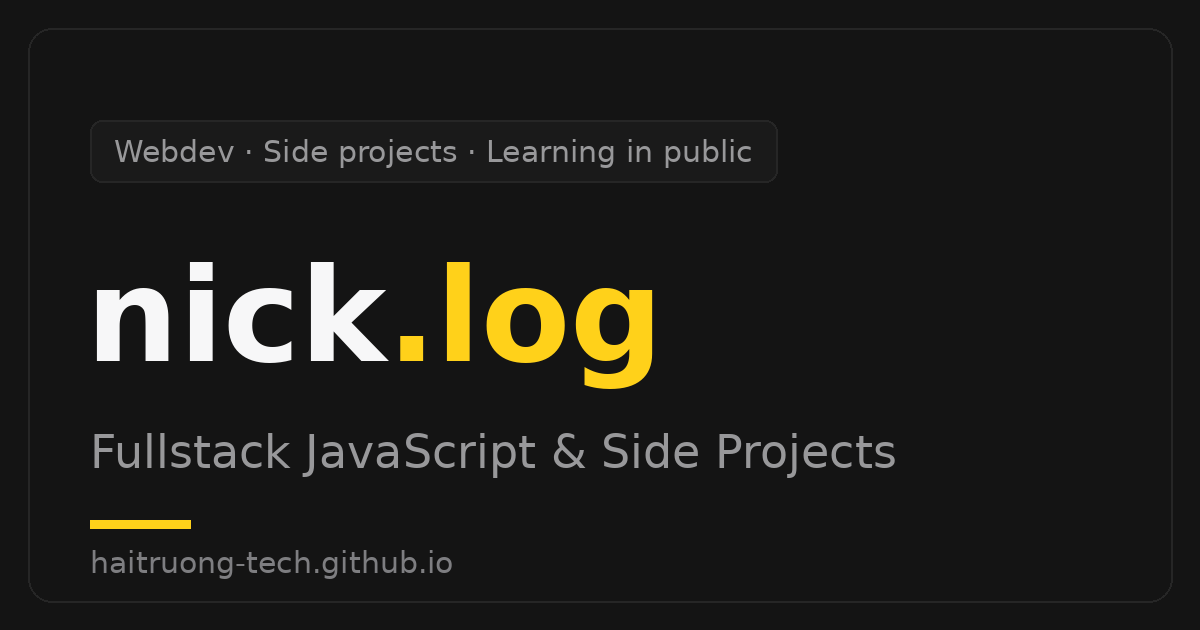
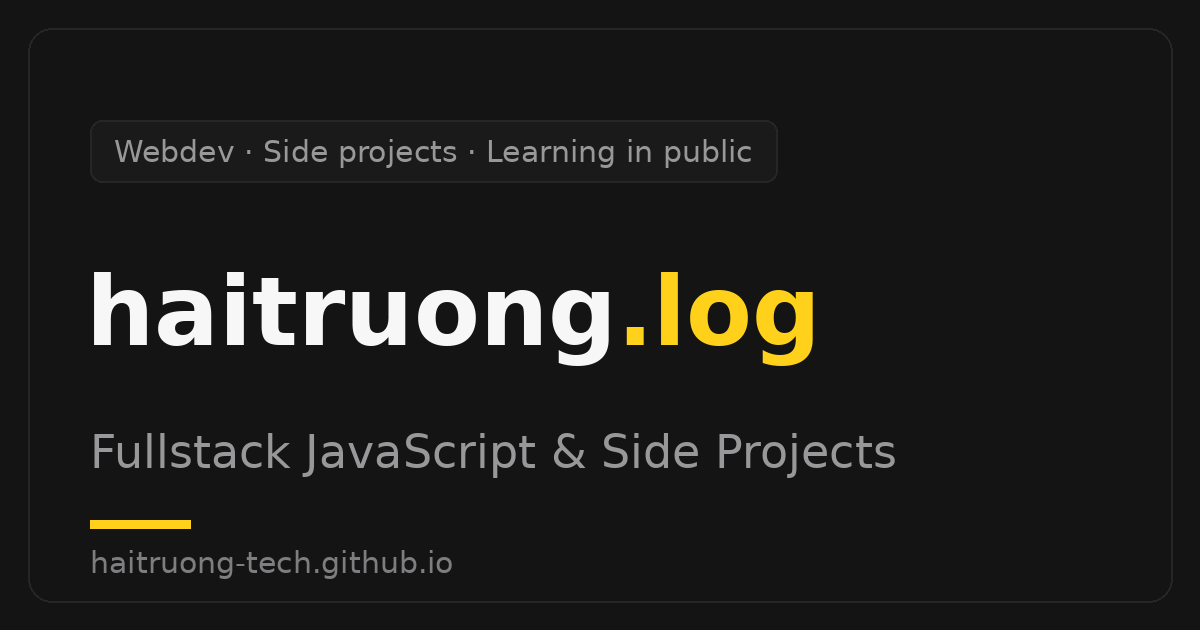
feat: replace Nick with Hai Truong across site and og image

Changed region(s): [[0.0617, 0.3921, 0.6783, 0.6333]]

diff --git a/src/i18n/ui.ts b/src/i18n/ui.ts
@@ -10,12 +10,12 @@ export const defaultLang: Lang = 'en';
 const en = {
   'site.name': 'Hai Truong',
   'site.title': 'Hai Truong · Fullstack JavaScript & Side Projects',
-  'site.description': "Nick's notes on software and side projects.",
+  'site.description': "Hải Trương's notes on software and side projects.",
   'nav.blog': 'Blog',
   'nav.ideas': 'Suggest an idea',
   'footer.builtWith': 'Built with Astro',
   'home.kicker': 'Webdev · Side projects · Learning in public',
-  'home.greeting': "Hi, I'm Nick 👋",
+  'home.greeting': "Hi, I'm Hải Trương 👋",
   'home.intro':
     "I'm a fullstack JavaScript developer. This is where I write about side projects and things I learn along the way — in Vietnamese or English, whichever fits. Expect build logs, lessons learned, and the occasional rabbit hole.",
   'home.ideas.before': "Out of ideas? Me too, sometimes. That's why there's a page where ",
@@ -51,13 +51,13 @@ const en = {
 const vi: Record<keyof typeof en, string> = {
   'site.name': 'Blog của Hai Truong',
   'site.title': 'Blog của Hai Truong · Fullstack JavaScript & Side Project',
-  'site.description': 'Ghi chép của Nick về phần mềm và side project.',
+  'site.description': 'Ghi chép của Hải Trương về phần mềm và side project.',
   'nav.blog': 'Blog',
   'nav.ideas': 'Góp ý tưởng',
   'footer.builtWith': 'Dựng bằng Astro',
   // Intentionally kept in English on both locales (owner's preference).
   'home.kicker': 'Webdev · Side projects · Learning in public',
-  'home.greeting': 'Chào, mình là Nick 👋',
+  'home.greeting': 'Chào, mình là Hải Trương 👋',
   'home.intro':
     'Mình là fullstack JavaScript developer. Đây là nơi mình viết về side project và những thứ học được trên đường — bằng tiếng Việt hoặc tiếng Anh, tuỳ chủ đề. Sẽ có build log, bài học rút ra, và thỉnh thoảng một cái hố mình lỡ sa chân vào.',
   'home.ideas.before': 'Hết ý tưởng? Đôi khi mình cũng vậy. Nên mới có một trang để ',

diff --git a/README.md b/README.md
@@ -1,4 +1,4 @@
-# Nick's Tech Blog
+# Blog của Hải Trương
 
 Blog cá nhân về tech, build bằng [Astro](https://astro.build). Có trang `/ideas/` để viewers đề xuất mình nên làm gì tiếp theo (chạy bằng [giscus](https://giscus.app) trên GitHub Discussions — không cần backend).
 